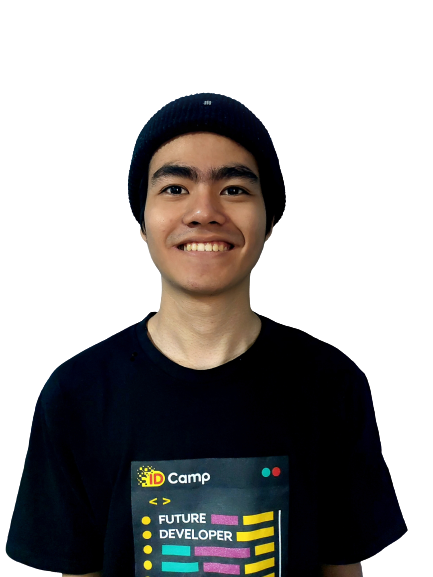
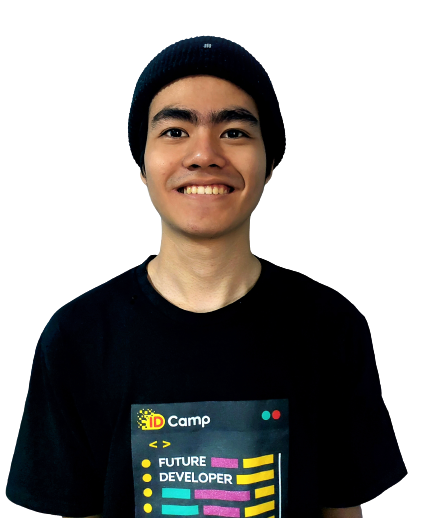
mengganti beberapa size font, yang pas saat ukuram laman web 100%

diff --git a/index.html b/index.html
@@ -49,10 +49,10 @@
       <div class="container text-center" style="margin-top: 4.5rem">
         <div class="row align-items-center">
           <div class="col">
-            <div class="text-start wrap" style="margin-left: 9rem">
-              <h4>Hello There 👋, my name is...</h4>
-              <h1 class="display-3 fw-bold">Nofriyan</h1>
-              <p class="lead fs-3 text-success fw-semibold">Frontend Developer</p>
+            <div class="text-start wrap" style="margin-left: 5rem">
+              <h5>Hello There 👋, my name is...</h5>
+              <h1 class="display-4 fw-bold">Nofriyan</h1>
+              <p class="lead fs-4 text-success fw-semibold">Frontend Developer</p>
               <p class="mb-5">
                 I'm Nofriyan, your friendly neighborhood Frontend Developer! With a knack for turning lines of code into visually stunning websites, I'm on a mission to make the web a more beautiful and user-friendly place.
               </p>
@@ -69,7 +69,7 @@
             </div>
           </div>
           <div class="col">
-            <img src="img/nofriyan.png" alt="profile" class="img-fluid img-thumbnail bg-transparent border-0" width="500px" height="500px" />
+            <img src="./img/nofriyan2.png" alt="profile" class="img-fluid img-thumbnail bg-transparent border-0" width="500px" height="500px" />
           </div>
         </div>
       </div>
@@ -138,7 +138,7 @@
         <div class="row justify-content-center">
           <div class="col-md-5 mb-5">
             <div class="card">
-              <img src="/img/project3.png" class="card-img-top" alt="projects" />
+              <img src="./img/project3.png" class="card-img-top" alt="projects" />
               <div class="card-body">
                 <p class="card-text">Creating a coffee shop landing page using HTML, CSS, and a touch of JavaScript.</p>
               </div>
@@ -146,7 +146,7 @@
           </div>
           <div class="col-md-5 mb-5">
             <div class="card">
-              <img src="/img/project1.png" class="card-img-top" alt="projects" />
+              <img src="./img/project1.png" class="card-img-top" alt="projects" />
               <div class="card-body">
                 <p class="card-text">Developing a basic keeper app with the assistance of React JS. Unfortunately, I haven't integrated the Web Storage feature into this project yet, so the entered notes are not stored on the web.</p>
               </div>
@@ -154,7 +154,7 @@
           </div>
           <div class="col-md-5 mb-5">
             <div class="card">
-              <img src="/img/project4.png" class="card-img-top" alt="projects" />
+              <img src="./img/project4.png" class="card-img-top" alt="projects" />
               <div class="card-body">
                 <p class="card-text">Creating a sign-up form to enhance my understanding of CSS positioning.</p>
               </div>
@@ -162,7 +162,7 @@
           </div>
           <div class="col-md-5 mb-5">
             <div class="card">
-              <img src="/img/project2.png" class="card-img-top" alt="projects" />
+              <img src="./img/project2.png" class="card-img-top" alt="projects" />
               <div class="card-body">
                 <p class="card-text">Building a Simon Game using HTML, CSS, and JS. The creation of this project is motivated by my training to understand if else statement and the DOM concept in JS.</p>
               </div>
